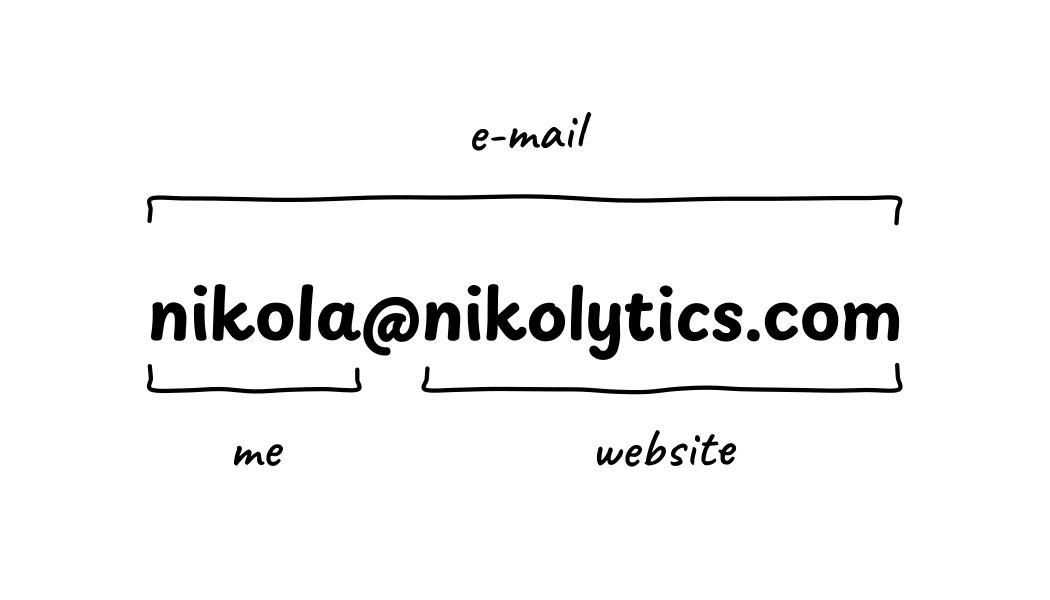
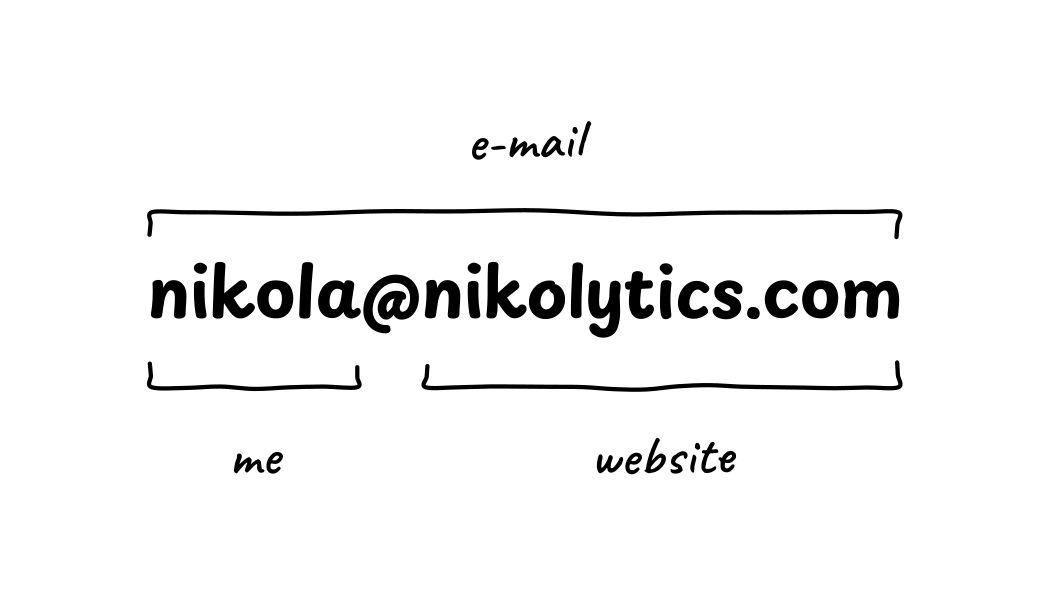
Make top bracket and label spacing symmetric with the bottom group
Compute real ink extents of the shaped text (bounds pen) and mirror the
vertical gaps: over-bracket sits at the same ink-to-line distance as the
under-brackets, labels at the same line-to-ink distance, whole block
re-centred on the card.

Claude-Session: https://claude.ai/code/session_01NopCU4BZ4epPy7qkQeV9GA

diff --git a/design/business-card/generate_sketch.py b/design/business-card/generate_sketch.py
@@ -5,6 +5,7 @@ import math, random
 import uharfbuzz as hb
 from fontTools.ttLib import TTFont
 from fontTools.pens.svgPathPen import SVGPathPen
+from fontTools.pens.boundsPen import BoundsPen
 from fontTools.pens.transformPen import TransformPen
 from fontTools.misc.transform import Transform
 
@@ -28,8 +29,9 @@ class Face:
             self.cap = 0.7
 
     def shape(self, text, size, tracking=0.0):
-        """-> (path_d, width, cluster_x) ; cluster_x[i] = x where char i starts,
-        plus one final entry = total width."""
+        """-> (path_d, width, cluster_x, (ink_ymin, ink_ymax))
+        cluster_x[i] = x where char i starts, plus one final entry = width.
+        ink extents are relative to the baseline, y-down (negative = above)."""
         buf = hb.Buffer()
         buf.add_str(text)
         buf.guess_segment_properties()
@@ -38,22 +40,28 @@ class Face:
         x = 0.0
         parts = []
         cluster_x = {}
+        ymin, ymax = 0.0, 0.0
         n = len(buf.glyph_infos)
         for i, (info, pos) in enumerate(zip(buf.glyph_infos, buf.glyph_positions)):
             cluster_x.setdefault(info.cluster, x)
             glyph = self.glyphSet[self.order[info.codepoint]]
+            tf = Transform(scale, 0, 0, -scale,
+                           x + pos.x_offset * scale, -pos.y_offset * scale)
             spen = SVGPathPen(self.glyphSet)
-            tpen = TransformPen(spen, Transform(
-                scale, 0, 0, -scale, x + pos.x_offset * scale, -pos.y_offset * scale))
-            glyph.draw(tpen)
+            glyph.draw(TransformPen(spen, tf))
             d = spen.getCommands()
             if d:
                 parts.append(d)
+            bpen = BoundsPen(self.glyphSet)
+            glyph.draw(TransformPen(bpen, tf))
+            if bpen.bounds:
+                ymin = min(ymin, bpen.bounds[1])
+                ymax = max(ymax, bpen.bounds[3])
             x += pos.x_advance * scale
             if i < n - 1:
                 x += tracking
         xs = [cluster_x.get(i, x) for i in range(len(text))] + [x]
-        return " ".join(parts), x, xs
+        return " ".join(parts), x, xs, (ymin, ymax)
 
 
 # ---------- hand-drawn stroke helpers ----------------------------------------
@@ -125,9 +133,9 @@ caveat = Face(f"{FONTS}/Caveat-SemiBold.ttf")
 EMAIL = "nikola@nikolytics.com"
 
 # size email to ~640 units wide
-_, w100, _ = playpen.shape(EMAIL, 100.0)
+_, w100, _, _ = playpen.shape(EMAIL, 100.0)
 EMAIL_SIZE = 100.0 * 640.0 / w100
-email_d, email_w, cx_list = playpen.shape(EMAIL, EMAIL_SIZE)
+email_d, email_w, cx_list, (e_ymin, e_ymax) = playpen.shape(EMAIL, EMAIL_SIZE)
 x0 = CX - email_w / 2
 
 def span(i, j, inset=4.0):
@@ -137,17 +145,25 @@ me_x1, me_x2 = span(0, 6)      # "nikola"
 web_x1, web_x2 = span(7, 21)   # "nikolytics.com"
 all_x1, all_x2 = span(0, 21)   # whole address, for the e-mail over-bracket
 
-# vertical composition: label / over-bracket / email / under-brackets / labels
-top_base = 128.0                     # e-mail label baseline
-top_brk_y = 168.0                    # over-bracket line (ticks point down)
-email_base = 288.0                   # address baseline
-brk_y = 330.0                        # under-brackets (ticks point up)
-lbl_base = brk_y + 66.0
-
 LBL_SIZE = 47.0
-top_d, top_w, _ = caveat.shape("e-mail", LBL_SIZE, tracking=0.6)
-me_d, me_w, _ = caveat.shape("me", LBL_SIZE, tracking=0.6)
-web_d, web_w, _ = caveat.shape("website", LBL_SIZE, tracking=0.6)
+top_d, top_w, _, (t_ymin, t_ymax) = caveat.shape("e-mail", LBL_SIZE, tracking=0.6)
+me_d, me_w, _, _ = caveat.shape("me", LBL_SIZE, tracking=0.6)
+web_d, web_w, _, (w_ymin, w_ymax) = caveat.shape("website", LBL_SIZE, tracking=0.6)
+
+# vertical composition, mirrored around the address so top and bottom
+# groups sit at identical ink-to-bracket and bracket-to-label distances
+email_base = 288.0                       # provisional; block is re-centred below
+brk_y = email_base + e_ymax + 42.0       # under-brackets: 4.2 mm below lowest ink
+lbl_base = brk_y - w_ymin + 44.0         # bottom labels: ink top 4.4 mm below line
+top_brk_y = email_base + e_ymin - 42.0   # over-bracket: 4.2 mm above highest ink
+top_base = top_brk_y - t_ymax - 44.0     # e-mail label: ink bottom 4.4 mm above line
+
+# centre the whole block on the card
+block_top = top_base + t_ymin
+block_bottom = lbl_base + w_ymax
+shift = H / 2 - (block_top + block_bottom) / 2
+email_base += shift; brk_y += shift; lbl_base += shift
+top_brk_y += shift; top_base += shift
 
 STROKE = 3.6
 
